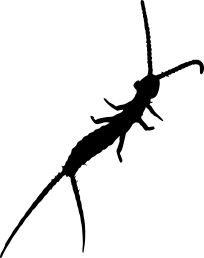
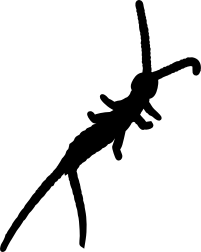
Modifying graphic elements and adding the people involved

diff --git a/styles.css b/styles.css
@@ -27,7 +27,7 @@
     13. Menu flottant « On this page »
     14. Mobile et accessibilité
     15. Icônes de faune
-    16. Soil fauna : page de vulgarisation (bandeaux colorés, vidéos, photos)
+    16. Soil organisms : page de vulgarisation (bandeaux colorés, vidéos, photos)
 
    RECETTES RAPIDES
    - Changer la couleur principale du site : section 1, variable --accent
@@ -38,7 +38,7 @@
    - Changer la police : section 1, variable --sans, et la ligne @import
      juste en dessous (voir fonts.google.com pour d'autres polices).
    - Faire un nouveau bloc coloré dans une page : voir la section 6.
-   - Changer la couleur d'un bandeau de la page Soil fauna, ou en ajouter un :
+   - Changer la couleur d'un bandeau de la page Soil organisms, ou en ajouter un :
      section 16 (code couleur expliqué en tête de section).
    - Annuler une règle pour tester : la mettre entre commentaires.
 
@@ -313,7 +313,7 @@ h2 {
   --k: var(--c-green);
   --kt: var(--t-green);
   padding: 1.6rem 1.8rem;
-  margin-bottom: 1.5rem;
+  margin-bottom: 1rem;
   border-radius: 6px;
   border-top: 5px solid var(--k);
   background: var(--kt);
@@ -333,13 +333,18 @@ h2 {
   display: inline-flex;
   align-items: center;
   justify-content: center;
-  width: 2.4rem;
-  height: 2.4rem;
+  width: 2rem;
+  height: 2rem;
   margin-bottom: 0.5rem;
-  border-radius: 50%;
-  background: var(--k);
-  color: #ffffff;
-  font-size: 1.05rem;
+  color: black;
+  font-size: 1.4rem;   /* taille de l'icône FA */
+  line-height: 1;
+}
+.card-icon-img img {
+  width: 100%;         /* l'image remplit la pastille, quelle que soit sa taille */
+  height: 100%;
+  object-fit: contain;
+  display: block;
 }
 
 /* Lien « appel à l'action » : gras, souligné, de la couleur du bloc. */
@@ -941,7 +946,7 @@ section[id], h2[id], h3[id] { scroll-margin-top: 5.5rem; }
 
 
 /* ==========================================================================
-   16. SOIL FAUNA : page de vulgarisation (soil_fauna.qmd)
+   16. Soil organisms : page de vulgarisation (soil_organisms.qmd)
    Cette page alterne des passages « normaux » (titres h2, texte, chiffres)
    et de grands BANDEAUX colorés pleine largeur qui contiennent texte,
    vidéos d'animation et planches de photos d'animaux.
@@ -956,7 +961,7 @@ section[id], h2[id], h3[id] { scroll-margin-top: 5.5rem; }
    les couleurs ci-dessus à ces rôles. Pour ajouter un bandeau d'une autre
    couleur, voir « Ajouter un bandeau » plus bas.
 
-   SYNTAXE D'UN BANDEAU, à écrire dans soil_fauna.qmd :
+   SYNTAXE D'UN BANDEAU, à écrire dans soil_organisms.qmd :
 
        :::: {.sf-band .sf-decomposers}
        ## Titre du bandeau
@@ -986,7 +991,7 @@ section[id], h2[id], h3[id] { scroll-margin-top: 5.5rem; }
    - .sf-split.sf-flip     idem, média à gauche
    - .sf-duo               deux médias de même largeur côte à côte
    - video.sf-video        vidéo qui se lance quand elle est visible (le
-                           script est en bas de soil_fauna.qmd)
+                           script est en bas de soil_organisms.qmd)
    - .sf-caption           légende sous une vidéo ou une image
    - .sf-taxa > figure.sf-taxon   planche de photos d'animaux ; copier une
                            ligne <figure class="sf-taxon">...</figure> pour
